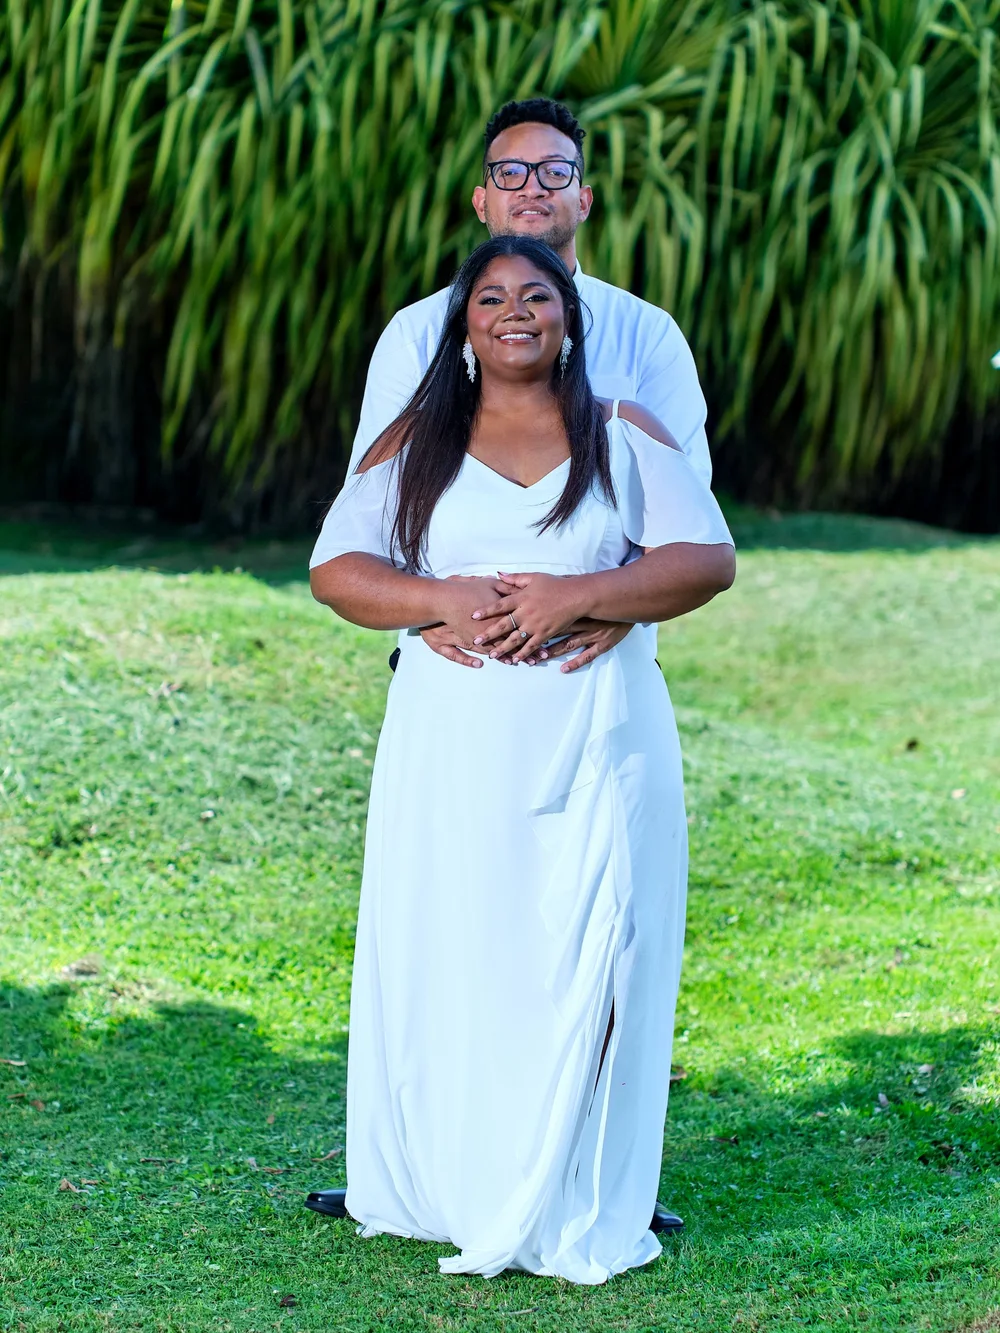
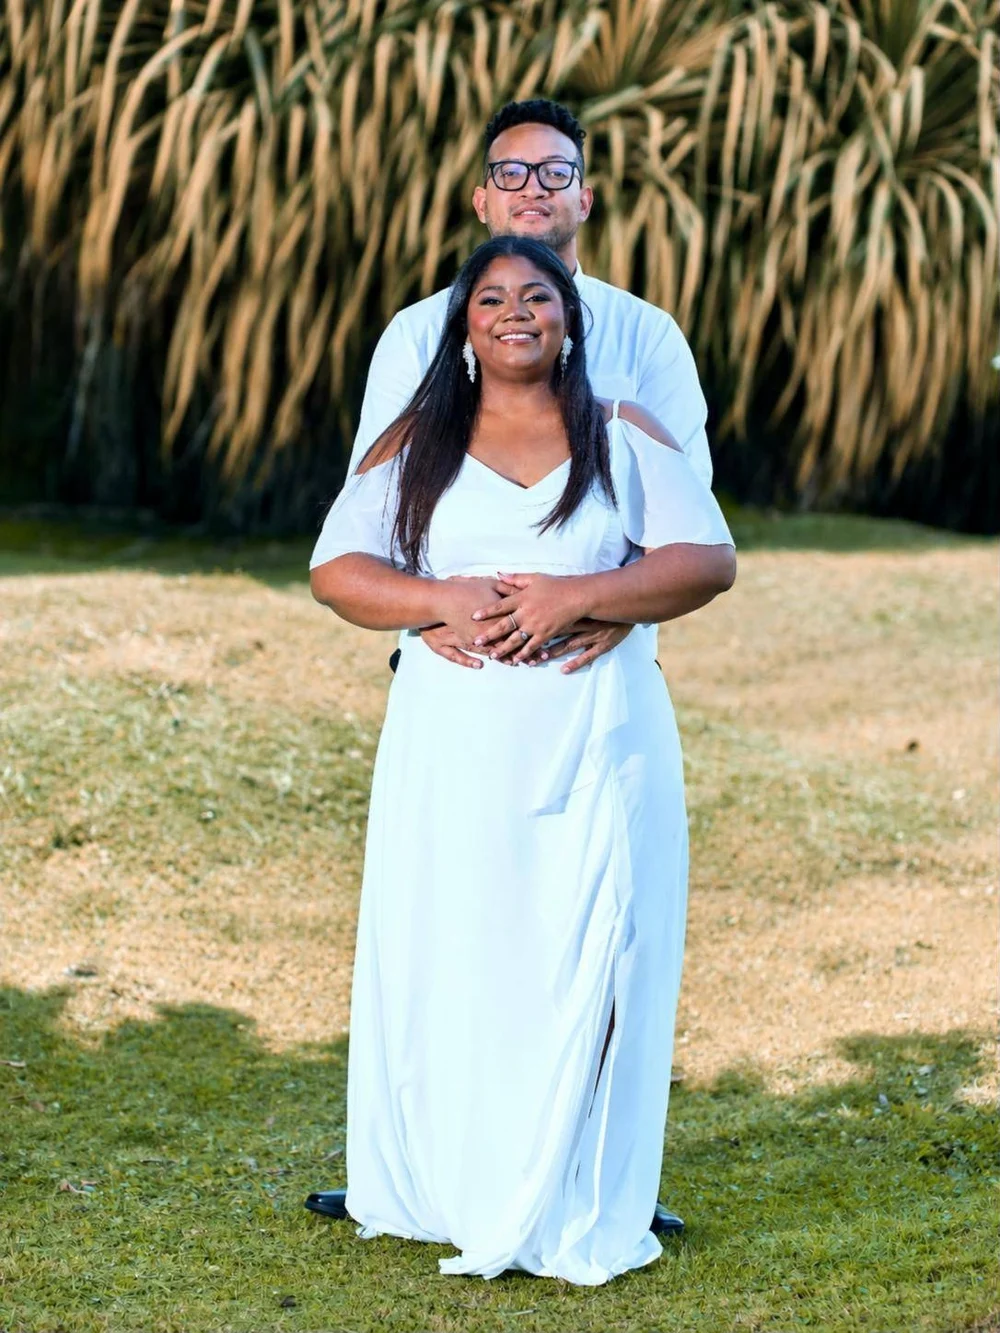
Actualiza invitación (nuevo zip) y vista previa para WhatsApp

diff --git a/plantillas/boda-jardin-salvia/estilos.css b/plantillas/boda-jardin-salvia/estilos.css
@@ -737,3 +737,103 @@ body .tarjeta.tarjeta-entrada {
   margin: 8px auto 16px;
   background: url("../../media/flores-arriba.webp") center / contain no-repeat;
 }
+
+
+/* ===================== Ronda de cambios 28-nov ===================== */
+/* Monograma "D&T" sobre la foto principal, en champaña */
+.sello-letras { color: #e3d2b4; letter-spacing: .04em; text-shadow: 0 2px 16px rgba(0, 0, 0, .35); }
+
+/* Orquídeas blancas (como las del fondo) en lugar de las flores durazno */
+.con-esquina .adorno { width: 120px; height: 210px; }
+.con-esquina .adorno-der { top: -14px; right: -26px; background-image: url("../../media/flores-orquidea-v.webp"); background-position: top right; }
+.con-esquina .adorno-abajo { display: none; }
+#invitacion .sec-padres .sec-titulo::after {
+  width: 230px; height: 150px; margin: 4px auto 6px;
+  background: url("../../media/flores-orquidea-1.webp") center / contain no-repeat;
+}
+.sec-cierre::after {
+  width: min(320px, 86%); aspect-ratio: 700 / 482;
+  background: url("../../media/flores-orquidea-2.webp") center / contain no-repeat;
+}
+
+/* Sin la raya bajo "Caminaremos juntos hacia el altar" */
+#sec-frase-2::after { display: none; }
+#sec-frase-2 { padding-bottom: 8px; }
+
+/* Foto caminando (galería 1) */
+#sec-galeria { padding-top: 8px; }
+
+/* Foto con marco amplio de papel rasgado, como la de "Nosotros" */
+.galeria-amplia .galeria-fotos { padding: 0; margin: 0 -24px; }
+.galeria-amplia .galeria-fotos > * {
+  border-radius: 0; box-shadow: none; aspect-ratio: 5 / 4;
+  -webkit-mask: url("img/rasgado.svg") center / 100% 100% no-repeat;
+  mask: url("img/rasgado.svg") center / 100% 100% no-repeat;
+}
+
+/* Paleta centrada y con aire bajo el título */
+#invitacion .paleta-titulo { margin-bottom: 22px; }
+#invitacion .paleta-colores { grid-template-columns: repeat(3, 86px); justify-content: center; margin: 0 auto; padding: 0; }
+.paleta-colores li { text-align: center; }
+
+/* Confirmación: tarjeta marfil para leer bien y botones iguales a los de arriba */
+.sec-rsvp .rsvp-caja, .sec-rsvp .aviso-rsvp {
+  position: relative;
+}
+.sec-rsvp > :not(.sec-titulo) { position: relative; }
+.sec-rsvp .rsvp-caja {
+  background: rgba(250, 247, 241, .94);
+  border-radius: 16px;
+  padding: 26px 20px;
+  box-shadow: 0 10px 30px rgba(69, 56, 50, .12);
+}
+#invitacion .sec-rsvp .aviso-rsvp {
+  display: inline-block; background: rgba(250, 247, 241, .9); border-radius: 999px; padding: 6px 16px; margin-bottom: 18px !important;
+}
+.sec-rsvp .formulario input[type="text"], .sec-rsvp .formulario select, .sec-rsvp .formulario textarea {
+  background: #fff; border: 1px solid color-mix(in srgb, var(--texto) 25%, transparent); border-radius: 10px; padding: 10px 12px;
+}
+.sec-rsvp .opciones span { border-radius: 999px; background: #fff; }
+.sec-rsvp .opciones input:checked + span { background: var(--salvia); color: #fff; }
+.formulario .rsvp-acciones { justify-content: center; }
+#invitacion .formulario .boton { border-radius: 999px; box-shadow: 0 6px 16px color-mix(in srgb, var(--salvia) 30%, transparent); padding: 12px 30px; }
+#invitacion .historia .bloque p:nth-last-child(2) { margin-top: 22px; }
+
+
+/* ===== Ajuste 28-nov (2): menos espacio y fotos verticales ===== */
+/* Sin raya ni hueco entre el versículo y la foto de "Nosotros" */
+#sec-frase::after { display: none; }
+#sec-frase { padding-bottom: 18px; }
+/* Fotos a lo largo (verticales), con el borde de papel rasgado */
+.nosotros-foto img, .nosotros-foto .foto-vacia { aspect-ratio: 4 / 5; }
+.galeria-amplia .galeria-fotos > * { aspect-ratio: 4 / 5; }
+.cierre-foto img, .cierre-foto .foto-vacia {
+  aspect-ratio: 4 / 5;
+  -webkit-mask: url("img/rasgado.svg") center / 100% 100% no-repeat;
+  mask: url("img/rasgado.svg") center / 100% 100% no-repeat;
+}
+.cierre-foto { margin: 0 -24px 18px; }
+/* Menos espacio entre "Nosotros" y "Con la bendición…" */
+.sec-nosotros { padding-bottom: 12px; }
+.sec-padres { padding-top: 16px; }
+.sec-padres::before { margin-bottom: 10px; }
+/* Secciones en general un poco más juntas */
+.sec { padding-top: 40px; padding-bottom: 40px; }
+#sec-galeria-2 { padding-top: 16px; padding-bottom: 16px; }
+.sec-cierre .sec-titulo::after { margin-bottom: 10px; }
+
+/* ===== Sombra suave en las letras para que se lean sobre el fondo ===== */
+#invitacion .sec, .tarjeta {
+  text-shadow:
+    0 0 2px rgba(255, 253, 248, .95),
+    0 0 10px rgba(255, 253, 248, .9),
+    0 1px 3px rgba(60, 42, 32, .28);
+}
+/* Letra pequeña un poco más firme */
+#invitacion .sec :is(p, li, small, cite, label, legend, td, th, caption, span),
+.tarjeta :is(p, span) { font-weight: 400; }
+/* Donde el fondo ya es liso (bloque café, tarjeta de confirmación, botones, foto) no hace falta */
+#invitacion :is(.sec-vestimenta, .sec-obsequios, .sec-aviso),
+#invitacion .rsvp-caja, #invitacion .boton, .tarjeta .boton,
+#invitacion .opciones span, #invitacion .cuenta-regresiva div:last-child span { text-shadow: none; }
+.sello-letras { text-shadow: 0 2px 16px rgba(0, 0, 0, .45), 0 1px 3px rgba(0, 0, 0, .35); }

diff --git a/vista-previa/tarjeta.html b/vista-previa/tarjeta.html
@@ -1,0 +1,35 @@
+<!DOCTYPE html>
+<html lang="es"><head><meta charset="utf-8">
+<link rel="stylesheet" href="https://fonts.googleapis.com/css2?family=Parisienne&family=Cormorant+Garamond:ital,wght@0,400;0,500;0,600;1,400&family=Montserrat:wght@400;500&display=swap">
+<style>
+html,body{margin:0;width:1200px;height:630px;overflow:hidden}
+body{background:#f3efe6 url(../media/fondo-terraza-mar.webp) center/cover;font-family:Montserrat,sans-serif;color:#453832;position:relative}
+body::before{content:"";position:absolute;inset:0;background:linear-gradient(90deg,rgba(243,239,230,.35) 0%,rgba(243,239,230,.82) 42%,rgba(243,239,230,.9) 100%)}
+.marco{position:absolute;inset:22px;border:1.5px solid #a59788;outline:1px solid rgba(165,151,136,.45);outline-offset:7px;border-radius:6px}
+.flor{position:absolute;pointer-events:none}
+.flor.a{right:-30px;top:-40px;width:250px;transform:rotate(18deg)}
+.flor.b{right:-20px;bottom:-60px;width:220px;transform:rotate(200deg)}
+.foto{position:absolute;left:78px;top:52px;width:372px;height:526px;padding:6px;border-radius:200px 200px 16px 16px;background:linear-gradient(135deg,#8c7b6b,#d9cdbd 40%,#a59788 60%,#efe6d8 80%,#7d6c5c);box-shadow:0 18px 40px rgba(69,56,50,.35)}
+.foto img{width:100%;height:100%;object-fit:cover;object-position:50% 30%;border-radius:194px 194px 11px 11px;display:block}
+.txt{position:absolute;left:480px;right:90px;top:0;bottom:0;display:flex;flex-direction:column;justify-content:center;align-items:center;text-align:center}
+.eyebrow{font-size:19px;letter-spacing:.45em;text-transform:uppercase;color:#8c7b6b;font-weight:500}
+.nombre{font-family:Parisienne,cursive;font-size:96px;line-height:1.05;margin:14px 0 0;color:#453832}
+.amp{font-family:Parisienne,cursive;font-size:56px;color:#a59788;line-height:1;margin:-4px 0}
+.linea{width:280px;height:1px;background:linear-gradient(90deg,transparent,#a59788,transparent);margin:22px 0 18px}
+.fecha{font-family:"Cormorant Garamond",serif;font-size:36px;font-weight:600;font-variant-numeric:lining-nums}
+.lugar{font-size:19px;letter-spacing:.16em;text-transform:uppercase;color:#6e5f55;margin-top:10px}
+</style></head><body>
+<img class="flor a" src="../media/flores-orquidea-v.webp" alt="">
+<img class="flor b" src="../media/flores-orquidea-v.webp" alt="">
+<div class="marco"></div>
+<div class="foto"><img src="../media/foto-portada.webp" alt=""></div>
+<div class="txt">
+  <div class="eyebrow">Nuestra boda</div>
+  <div class="nombre">Taymara</div>
+  <div class="amp">&amp;</div>
+  <div class="nombre" style="margin-top:0">Domingo</div>
+  <div class="linea"></div>
+  <div class="fecha">Sábado 27 de febrero 2027 · 3:00 p. m.</div>
+  <div class="lugar">Ciudad de Panamá</div>
+</div>
+</body></html>

diff --git a/index.html b/index.html
@@ -3,16 +3,25 @@
 <head>
 <meta charset="utf-8">
 <meta name="viewport" content="width=device-width,initial-scale=1,viewport-fit=cover">
-<title>Nuestra boda | Taymara &amp; Domingo</title>
-<meta name="description" content="27.02.2027 · Con mucho cariño te invitamos a nuestra boda.">
-<meta property="og:title" content="Nuestra boda | Taymara &amp; Domingo">
-<meta property="og:description" content="27.02.2027 · Con mucho cariño te invitamos a nuestra boda.">
-<meta property="og:image" content="https://jadeinkinvitacionesdigitales-source.github.io/boda-taymara-domingo/preview.jpg">
+<title>Taymara &amp; Domingo · Nuestra boda</title>
+<meta name="description" content="2 almas, 1 camino · Sábado 27 de febrero de 2027, 3:00 p. m. · Ciudad de Panamá">
+<meta property="og:type" content="website">
+<meta property="og:site_name" content="Taymara &amp; Domingo · Nuestra boda">
+<meta property="og:url" content="https://jadeinkinvitacionesdigitales-source.github.io/boda-taymara-domingo/">
+<meta property="og:title" content="Taymara &amp; Domingo · Nuestra boda">
+<meta property="og:description" content="2 almas, 1 camino · Sábado 27 de febrero de 2027, 3:00 p. m. · Ciudad de Panamá">
+<meta property="og:image" content="https://jadeinkinvitacionesdigitales-source.github.io/boda-taymara-domingo/img/vista-previa.jpg">
+<meta property="og:image:secure_url" content="https://jadeinkinvitacionesdigitales-source.github.io/boda-taymara-domingo/img/vista-previa.jpg">
+<meta property="og:image:type" content="image/jpeg">
 <meta property="og:image:width" content="1200">
 <meta property="og:image:height" content="630">
-<meta property="og:url" content="https://jadeinkinvitacionesdigitales-source.github.io/boda-taymara-domingo/">
+<meta property="og:image:alt" content="Taymara &amp; Domingo · Nuestra boda">
+<meta property="og:locale" content="es_PA">
 <meta name="twitter:card" content="summary_large_image">
-<meta property="og:type" content="website">
+<meta name="twitter:title" content="Taymara &amp; Domingo · Nuestra boda">
+<meta name="twitter:description" content="2 almas, 1 camino · Sábado 27 de febrero de 2027, 3:00 p. m. · Ciudad de Panamá">
+<meta name="twitter:image" content="https://jadeinkinvitacionesdigitales-source.github.io/boda-taymara-domingo/img/vista-previa.jpg">
+<link rel="canonical" href="https://jadeinkinvitacionesdigitales-source.github.io/boda-taymara-domingo/">
 <style>body{margin:0}img{max-width:100%}[hidden]{display:none!important}</style>
 <meta name="google" content="notranslate">
 <link rel="preconnect" href="https://fonts.googleapis.com">

diff --git a/js/secciones/ayuda.js b/js/secciones/ayuda.js
@@ -23,7 +23,7 @@ export function monograma(ctx, clase = 'monograma-sec') {
   const n = ctx.config.nombres || {};
   const src = ctx.ruta(ctx.config.monograma);
   if (src) return crear('img', { clase, src, alt: '' });
-  const iniciales = [n.principal, n.secundario].filter(Boolean).map((t) => t.trim()[0] || '');
+  const iniciales = Array.isArray(ctx.config.monograma_iniciales) ? ctx.config.monograma_iniciales : [n.principal, n.secundario].filter(Boolean).map((t) => t.trim()[0] || '');
   if (!iniciales.length) return null;
   return crear('p', { clase: clase + ' monograma-letras', 'aria-hidden': 'true' },
     iniciales.flatMap((l, i) => (i ? [crear('span', { clase: 'monograma-y' }, '&'), l] : [l])));

diff --git a/js/secciones/galeria.js b/js/secciones/galeria.js
@@ -6,7 +6,8 @@ export default function galeria(sec, ctx) {
   const fotos = Array.isArray(sec.fotos) ? sec.fotos : [];
   const subir = enlaceSeguro(sec.subir_fotos_url);
   if (!fotos.length && !subir) return null;
-  return crear('section', {},
+  // "estilo": "amplia" = foto a todo lo ancho con bordes de papel rasgado
+  return crear('section', { clase: sec.estilo === 'amplia' ? 'galeria-amplia' : null },
     titulo(sec, ''),
     fotos.length ? crear('div', { clase: 'galeria-fotos' }, fotos.map((f, i) => foto(ctx, f, 'Foto ' + (i + 1), 'Foto ' + (i + 1)))) : null,
     subir ? crear('div', { clase: 'galeria-subir' },

diff --git a/js/secciones/portada.js b/js/secciones/portada.js
@@ -38,7 +38,7 @@ function tarjeta(sec, ctx) {
 
   // Monograma sobre la foto: la imagen subida o, si no hay, las iniciales
   const monograma = ctx.ruta(ctx.config.monograma);
-  const iniciales = [n.principal, n.secundario].filter(Boolean).map((t) => t.trim()[0] || '').join(' ');
+  const iniciales = ctx.config.monograma_texto || [n.principal, n.secundario].filter(Boolean).map((t) => t.trim()[0] || '').join(' ');
   const sello = monograma
     ? crear('img', { clase: 'sello', src: monograma, alt: '' })
     : iniciales ? crear('p', { clase: 'sello sello-letras', 'aria-hidden': 'true' }, iniciales) : null;
